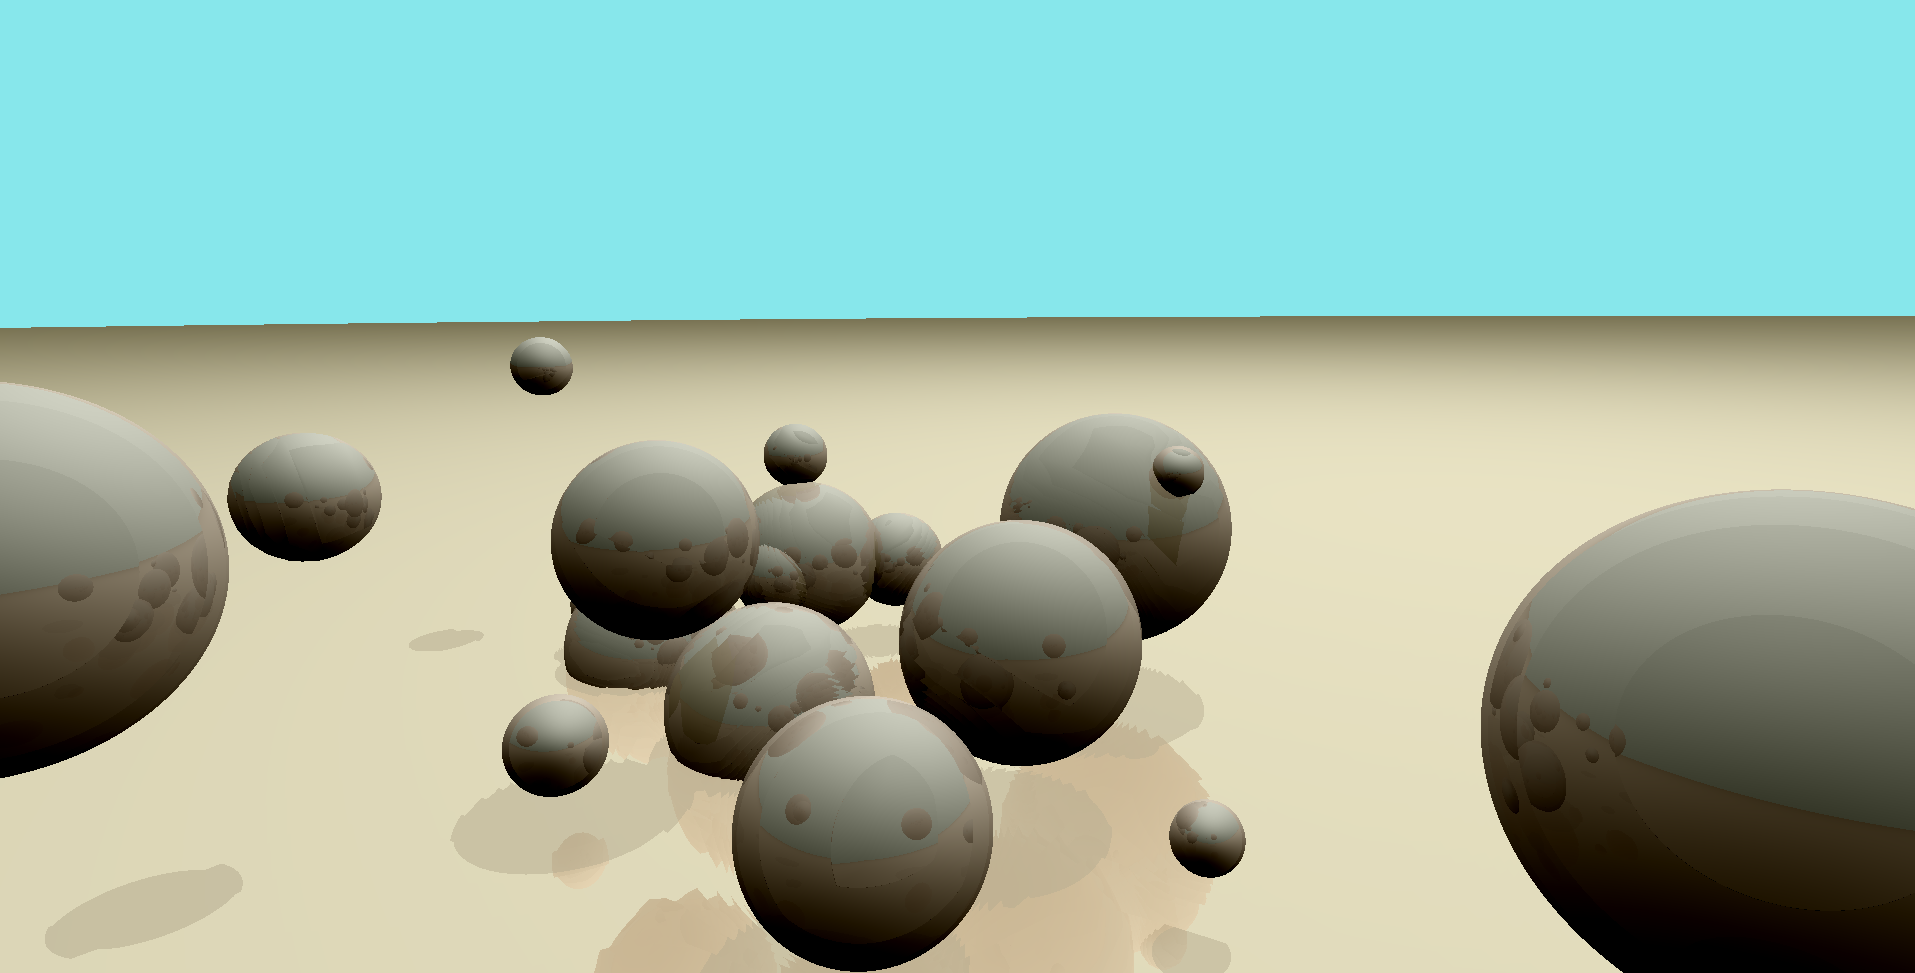
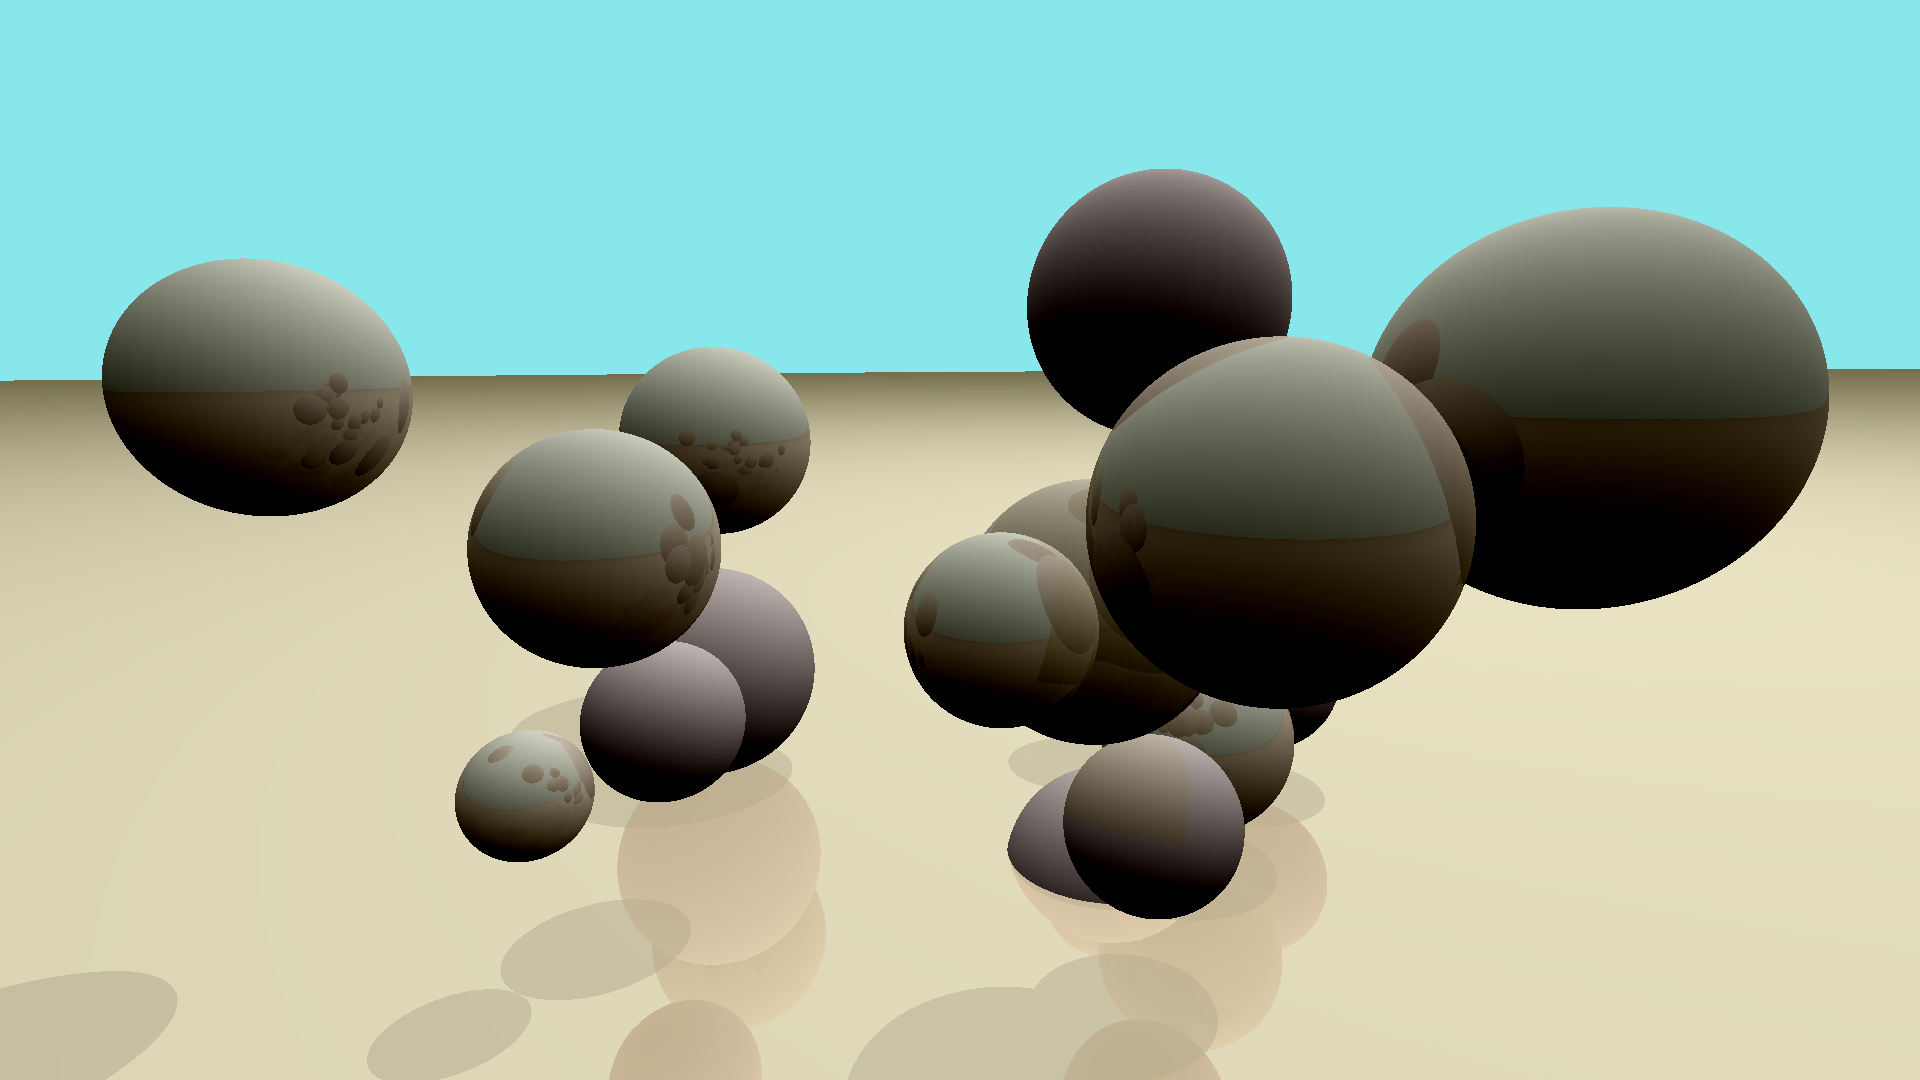
updates

diff --git a/portfolio.html b/portfolio.html
@@ -38,34 +38,34 @@
     </div>
 
     <div id="second_block">
-        <br>
-        <br>
-        <br>
-        <br>
-        <br>
-        <br>
-        <br>
-        <br>
-        <br>
-        <br>
-        <br>
-        <br>
-        <br>
-        <br>
-        <br>
-        <br>
-        <br>
-        <br>
-        <br>
-        <br>
-        <br>
-        <br>
-        <br>
-        <br>
-        <br>
-        <br>
         <h1>Competitions</h1>
         <h1>Hobbies</h1>
+        <br>
+        <br>
+        <br>
+        <br>
+        <br>
+        <br>
+        <br>
+        <br>
+        <br>
+        <br>
+        <br>
+        <br>
+        <br>
+        <br>
+        <br>
+        <br>
+        <br>
+        <br>
+        <br>
+        <br>
+        <br>
+        <br>
+        <br>
+        <br>
+        <br>
+        <br>
     </div>
     <footer></footer>
     <style>
@@ -205,7 +205,7 @@
             flex-basis: calc(50%);
         }
         
-        .retex>div>div>img {
+        .retex>div>div img {
             width: 100%;
         }
         
@@ -268,7 +268,7 @@
             var div = `<div class="retex" id="visibleRetex">
                 <button onclick="hideRetex()"><img src="./img/closeIcon.png"></button>
                 <div>
-                    <div><img src="./img/pp/${id}.png" alt=""></div>
+                    <div><a href="./${id}.html"><img src="./img/pp/${id}.png" alt=""></a></div>
                     <div>
                         <h3>${data[id].title}</h3>
                         <p>clskebf oiuhf oriugh eoirugh oiezurgh oeirugh oeirugh qoiuh </p>
@@ -388,7 +388,7 @@
             for (let i = 0; i < points.length; i++) {
                 ctx.fillStyle = lineColor;
                 ctx.strokeStyle = lineColor;
-                drawPoint(points[i], maxCircleWidth * i / points.length)
+                drawPoint(points[i], maxCircleWidth * (1 + i) / points.length)
                 if (i > 0) {
                     ctx.beginPath(); // Start a new path
                     ctx.lineWidth = (maxCircleWidth * i / points.length) * 2;
@@ -399,7 +399,7 @@
             }
         }
         setInterval(() => {
-            if (points.length > 2) points.shift()
+            if (points.length >= 2) points.shift()
             drawPoints()
         }, 30)
         ctx.scale(1, 1)

diff --git a/js/rayTracing3d.js b/js/rayTracing3d.js
@@ -96,8 +96,9 @@ function setup() {
     ]
 
     var newScene = [
-        new MandleBulb(),
-        //new SmoothTwoSpheres(-10, 10, 20, 12, 10, 20, 10, 10, randomColor(), randomColor(), 20, true)
+        //new MandleBulb(),
+        new SmoothTwoSpheres(-10, 10, 20, 12, 10, 20, 10, 10, randomColor(), randomColor(), 20, true),
+        new SmoothTwoSpheres(-5, 50, 20, 12, 50, 30, 10, 10, randomColor(), randomColor(), 20, true)
     ]
 
     cam = new Camera()
